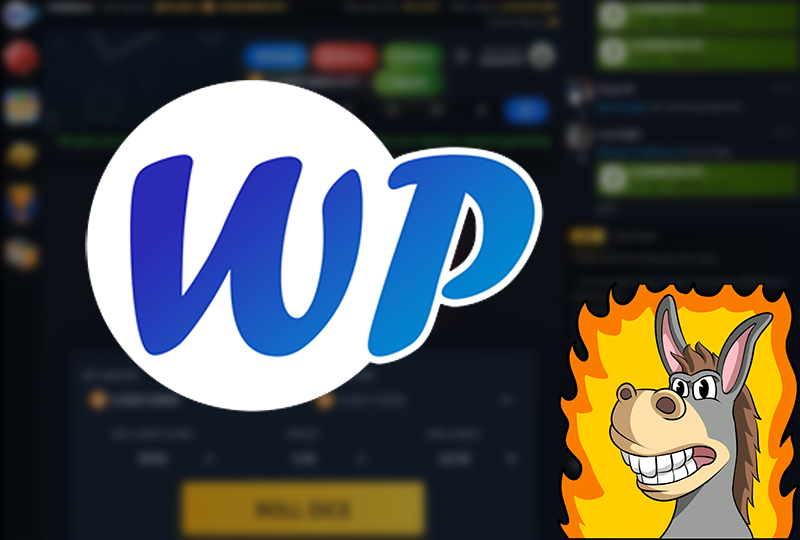
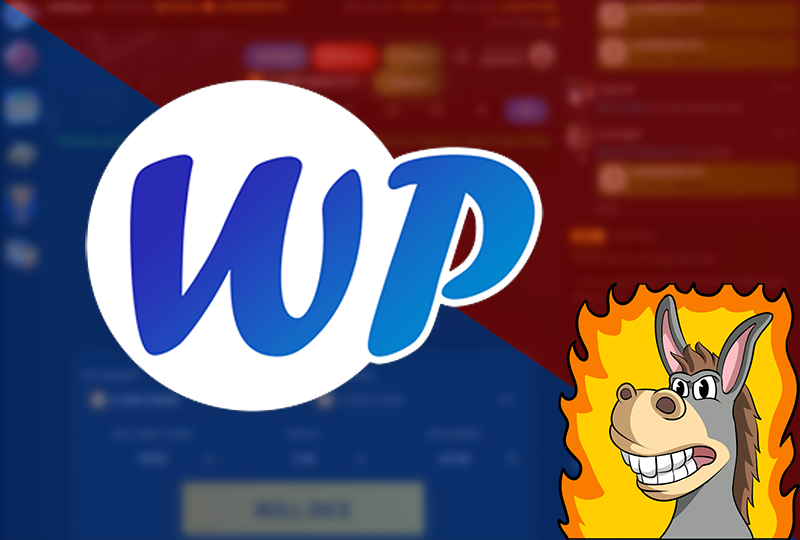
Blog post on my 'Ask the Wizard' question - Apply brand colors to title image

diff --git a/README.md b/README.md
@@ -8,5 +8,10 @@ Public repository for the jackace.com site.
 
 If you notice any errors, please submit a pull request to correct them!
 
+## Deployment Steps
 
-
+* Deploy to staging.jackace.com before deploying to www.jackace.com
+* Check post date
+* Check image folder structure for correct date
+* Preview Twitter card at https://cards-dev.twitter.com/validator
+* Make sure other posts weren't accidentally deployed
